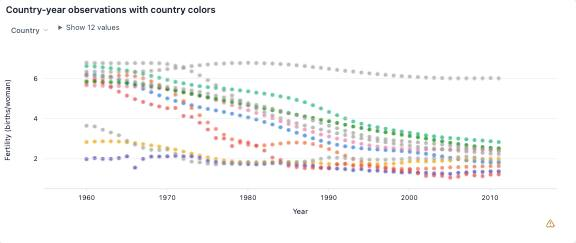
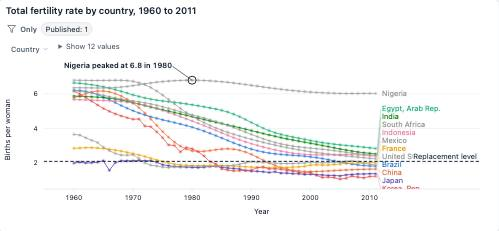
feat(daily): rewrite fertility-trajectories around the convergence to two children
Replaces the scatter, box plot, row count, and records table with a connected
path per country, a country-by-decade heatmap, and a stacked bar of
country-years below replacement level. Eight computed findings replace the two
Finding lines; the catalogue title, question, and summary now state the result.

diff --git a/apps/demo/public/daily-viz/projects/fertility/trajectories.eda.md b/apps/demo/public/daily-viz/projects/fertility/trajectories.eda.md
@@ -1,64 +1,50 @@
-# Twelve fertility trajectories, with the empty end years retained
+# Eleven of twelve countries converged on two children; Nigeria stayed at six
 
-**How do selected historical country paths differ without implying a world average?** Each row is one selected country-year.
+**How did fertility fall across twelve countries after 1960?** Each row is one country in one year, 1960 to 2011, with the total fertility rate: the births a woman would have at that year's age-specific rates. The twelve are Brazil, China, Egypt, France, Indonesia, India, Japan, Korea, Mexico, Nigeria, South Africa, and the United States. They start almost five births apart and, with one exception, end within two.
 
 ```eda
 eda query=r
 country:cat=r.country label="Country"
 code:cat=r.code label="Code"
 year:num=r.year label="Year"
-fertility:num=r.fertility label="Fertility (births/woman)"
+fertility:num=r.fertility label="Births per woman"
 decade:cat=r.decade label="Decade"
+observed:num=r.observed label="Published"
+calc level = fertility == null ? null : fertility < 2.1 ? "Below 2.1" : "2.1 or more"
 ```
 
-## 1. Country-year observations with country colors
+## From 5.3 births to 2.4 in fifty years
 
-Unconnected points do not imply interpolation through null end years. Each country receives one point for each available annual value.
+Each path is one country. Across the twelve, the average rate was 5.3 births per woman in 1960. By 2011 it was 2.4. Korea's path is the steepest: it started above six and ended lowest, at 1.24 births per woman in 2011. Nigeria's path is the one that never bends. It rose to 6.8 in 1980 and was still at 6.0 births per woman in 2011.
 
 ```eda
-scatter @nb-fertility-trajectories-chart-1 x=year y=fertility color=country title="Country-year observations with country colors" x.title="Year" y.title="Fertility (births/woman)"
+scatter @nb-fertility-trajectories-chart-1 x=year y=fertility color=country title="Total fertility rate by country, 1960 to 2011" x.title="Year" y.title="Births per woman" where.observed=1 {
+  connect.orderField=year connect.groupField=country connect.labels=end pointSize=2
+  rule y=2.1 "Replacement level"
+  callout "Nigeria peaked at 6.8 in 1980" on=r.country:Nigeria,r.year:1980 offset=-30,-28
+}
 ```
 
-## 2. Country distributions across decades
+## Every row fades except one
 
-These boxes mix countries and years and therefore answer a country-year question. They are not population-weighted distributions of people.
+Each cell is a country's average rate over a decade. Read left to right, eleven rows pale from dark to light as rates fall. Nigeria's row stays dark across all six columns. Among the other eleven, the 2011 rates ran only from 1.24 in Korea to 2.85 in Egypt.
 
 ```eda
-boxplot @nb-fertility-trajectories-chart-2 fertility color=decade title="Country distributions across decades" y.title="Fertility (births/woman)"
+heatmap @nb-fertility-trajectories-chart-2 country columnField=decade aggregation=average measureField=fertility sortBy=label title="Average births per woman by country and decade"
 ```
 
-**Finding.** The unweighted mean across the selected countries in 1960 was 5.342 births per woman.
+## Below replacement, one country at a time
 
-## 3. Published rates across country and decade
-
-The cell is an available-year mean within a country and decade. Different decade coverage must be checked before treating cells as equally supported.
+Each bar counts country-years in a decade, split at 2.1 births per woman, the rate that holds a population level. In the 1960s, 5.8% of country-years were below 2.1 births per woman, all of them Japan's. By the 2000s, 44.2% were. The 2010s column holds only 2010 and 2011.
 
 ```eda
-heatmap @nb-fertility-trajectories-chart-3 country columnField=decade aggregation=average measureField=fertility title="Published rates across country and decade"
-```
-
-## 4. Rows retained for each country
-
-The row counts include null-valued year cells. Equal retained counts do not mean equal numbers of measured values.
-
-```eda
-row @nb-fertility-trajectories-chart-4 country title="Rows retained for each country" x.title="Rows"
-```
-
-**Finding.** The corresponding selected-country mean in 2011 was 2.377 births per woman.
-
-## 5. The rows behind the charts
-
-Sort a column or select rows to check any value above. Selections in a notebook stay with their own chart.
-
-```eda
-table @nb-fertility-trajectories-records country,code,year,fertility title="Records behind this comparison"
+bar @nb-fertility-trajectories-chart-3 decade seriesField=level seriesLayout=stacked color=level title="Country-years above and below replacement level, by decade" y.title="Country-years" where.observed=1
 ```
 
 ## Takeaway
 
-Keep trajectories separate and make the missing tail explicit. A pooled average would hide country paths and introduce an arbitrary weighting question that this selection cannot resolve globally.
+Over half a century, eleven countries that started anywhere from two to seven births per woman converged on two. The exception is the one that matters most for the world's population: Nigeria, the largest of the twelve by births, ended the period where it began.
 
 ## Limits
 
-The countries are an illustrative fixed set, not a representative sample. Total fertility rate is a period measure, not completed lifetime births for a cohort. The 2012 and 2013 columns contain no published values.
+Twelve countries chosen for contrast, not a sample of the world, and each counts once whatever its size. The total fertility rate is a period measure, not the completed family size of any real cohort. Values after 2011 are blank in this export.
